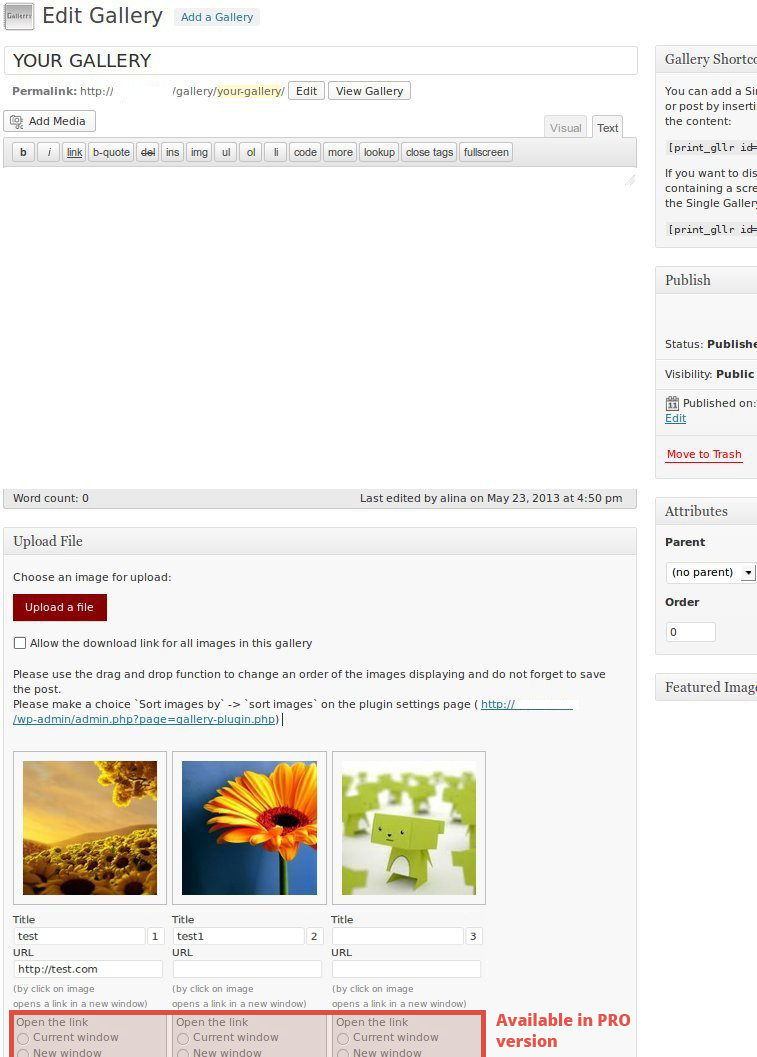
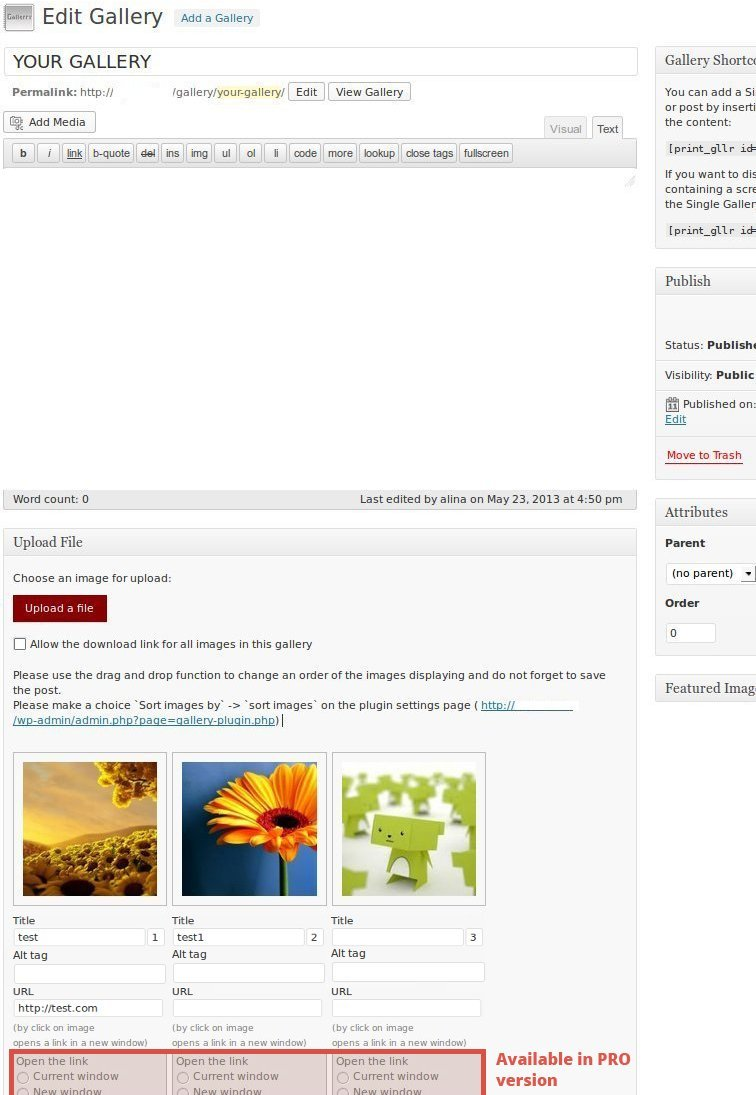
gallery update

diff --git a/wp-content/plugins/gallery-plugin/js/bws_menu.js b/wp-content/plugins/gallery-plugin/js/bws_menu.js
@@ -5,13 +5,6 @@
 
 		$('.bws_system_info_meta_box .hndle').click( function(){
 			if ( $('.bws_system_info_meta_box .inside').is(":visible") ) {
-				$('.bws_system_info_meta_box .inside').css('display','none !important');
-			} else {
-				$('.bws_system_info_meta_box .inside').css('display','block !important');
-			}					
-		});
-		$('.bws_system_info_meta_box .handlediv').click( function(){
-			if ( $('.bws_system_info_meta_box .inside').is(":visible") ) {
 				$('.bws_system_info_meta_box .inside').css('display','none');
 			} else {
 				$('.bws_system_info_meta_box .inside').css('display','block');

diff --git a/wp-content/plugins/gallery-plugin/css/stylesheet.css b/wp-content/plugins/gallery-plugin/css/stylesheet.css
@@ -87,10 +87,10 @@ ul.gallery {
 	clear:both;
 	height:0;
 }
-.gllr_image_text, .gllr_link_text {
+.gllr_image_text {
 	width:150px;
 }
-.gllr_link_text {
+.gllr_link_text, .gllr_image_alt_tag {
 	width:170px;
 }
 .gllr_order_text {

diff --git a/wp-content/themes/radleysboo/css/radleysboo.css b/wp-content/themes/radleysboo/css/radleysboo.css
@@ -144,7 +144,7 @@ img.attachment-large {
 
 @media (min-width: 768px) {
 	.gallery_box .item, .gallery .item {
-		width:25%;
+		width:30%;
 	}
 }
 

diff --git a/wp-content/plugins/gallery-plugin/gallery-plugin.php b/wp-content/plugins/gallery-plugin/gallery-plugin.php
@@ -4,7 +4,7 @@ Plugin Name: Gallery Plugin
 Plugin URI:  http://bestwebsoft.com/plugin/
 Description: This plugin allows you to implement gallery page into web site.
 Author: BestWebSoft
-Version: 4.0.1
+Version: 4.0.2
 Author URI: http://bestwebsoft.com/
 License: GPLv2 or later
 */
@@ -200,6 +200,7 @@ if ( ! function_exists( 'gllr_post_custom_box' ) ) {
 		$key = "gllr_image_text";
 		$gllr_download_link = get_post_meta( $post->ID, 'gllr_download_link', true );
 		$link_key = "gllr_link_url";
+		$alt_tag_key = "gllr_image_alt_tag";
 		$error = "";
 		$uploader = true;
 		
@@ -270,6 +271,7 @@ if ( ! function_exists( 'gllr_post_custom_box' ) ) {
 				echo '<div class="gllr_border_image"><img src="'.$image_attributes[0].'" alt="'.$page->post_title.'" title="'.$page->post_title.'" height="'.get_option( 'thumbnail_size_h' ).'" width="'.get_option( 'thumbnail_size_w' ).'" /></div>';
 				echo '<br />'.__( "Title", "gallery" ).'<br /><input type="text" name="gllr_image_text['.$page->ID.']" value="'.get_post_meta( $page->ID, $key, TRUE ).'" class="gllr_image_text" />';
 				echo '<input type="text" name="gllr_order_text['.$page->ID.']" value="'.$page->menu_order.'" class="gllr_order_text '.( $page->menu_order == 0 ? "hidden" : '' ).'" />';
+				echo '<br />'.__( "Alt tag", "gallery" ).'<br /><input type="text" name="gllr_image_alt_tag['.$page->ID.']" value="'.get_post_meta( $page->ID, $alt_tag_key, TRUE ).'" class="gllr_image_alt_tag" />';
 				echo '<br />'.__( "URL", "gallery" ).'<br /><input type="text" name="gllr_link_url['.$page->ID.']" value="'.get_post_meta( $page->ID, $link_key, TRUE ).'" class="gllr_link_text" /><br /><span class="small_text">'.__( "(by click on image opens a link in a new window)", "gallery" ).'</span>';
 				echo '<a class="gllr_pro_version" href="http://bestwebsoft.com/plugin/gallery-pro/?k=63a36f6bf5de0726ad6a43a165f38fe5&pn=79&v='.$plugin_info["Version"].'" target="_blank" title="'. __( 'This setting is available in Pro version', 'gallery' ).'"><br />'.
 					'<div class="gllr_pro_version">'.__( "Open the link", "gallery" ).'<br/><input disabled type="radio" value="_self" > '.__( "Current window", "gallery" ).'<br/><input disabled type="radio" value="_blank" > '.__( "New window", "gallery" ).'</div></a>';
@@ -298,6 +300,7 @@ if ( ! function_exists ( 'gllr_save_postdata' ) ) {
 		global $post, $wpdb;
 		$key = "gllr_image_text";
 		$link_key = "gllr_link_url";
+		$alt_tag_key = "gllr_image_alt_tag";
 
 		if ( isset( $_REQUEST['undefined'] ) && ! empty( $_REQUEST['undefined'] ) ) {
 			$array_file_name = $_REQUEST['undefined'];
@@ -395,6 +398,29 @@ if ( ! function_exists ( 'gllr_save_postdata' ) ) {
 					} elseif( $value ) {
 						// Custom field has a value, but this custom field does not exist in database
 						add_post_meta( $page->ID, $link_key, $value );
+					}
+				}
+			}
+		}
+		if ( isset( $_REQUEST['gllr_image_alt_tag'] ) ) {
+			$posts = get_posts( array(
+				"showposts"			=> -1,
+				"what_to_show"		=> "posts",
+				"post_status"		=> "inherit",
+				"post_type"			=> "attachment",
+				"orderby"			=> "menu_order",
+				"order"				=> "ASC",
+				"post_mime_type"	=> "image/jpeg,image/gif,image/jpg,image/png",
+				"post_parent"		=> $post->ID ));
+			foreach ( $posts as $page ) {
+				if( isset( $_REQUEST['gllr_image_alt_tag'][$page->ID] ) ) {
+					$value = $_REQUEST['gllr_image_alt_tag'][$page->ID];
+					if ( get_post_meta( $page->ID, $alt_tag_key, FALSE ) ) {
+						// Custom field has a value and this custom field exists in database
+						update_post_meta( $page->ID, $alt_tag_key, $value );
+					} elseif( $value ) {
+						// Custom field has a value, but this custom field does not exist in database
+						add_post_meta( $page->ID, $alt_tag_key, $value );
 					}
 				}
 			}
@@ -1010,21 +1036,21 @@ if ( ! function_exists ( 'gllr_shortcode' ) ) {
 			), $attr ) 
 		);
 		$args = array(
-			'post_type'						=> 'gallery',
-			'post_status'				=> 'publish',
-			'p'														=> $id,
+			'post_type'			=> 'gallery',
+			'post_status'		=> 'publish',
+			'p'					=> $id,
 			'posts_per_page'	=> 1
 		);	
 		ob_start();
 		$second_query = new WP_Query( $args ); 
 		$gllr_options = get_option( 'gllr_options' );
-		if( $display == 'short' ) { ?>
+		if ( $display == 'short' ) { ?>
 				<div class="gallery_box">
 				<ul>
 				<?php 
 					global $post, $wpdb, $wp_query;
 					if ( $second_query->have_posts() ) : $second_query->the_post();
-						$attachments	= get_post_thumbnail_id( $post->ID );
+						$attachments = get_post_thumbnail_id( $post->ID );
 							if( empty ( $attachments ) ) {
 								$attachments = get_children( 'post_parent='.$post->ID.'&post_type=attachment&post_mime_type=image&numberposts=1' );
 								$id = key( $attachments );
@@ -1068,29 +1094,29 @@ if ( ! function_exists ( 'gllr_shortcode' ) ) {
 							<?php foreach( $posts as $attachment ) { 
 								$key = "gllr_image_text";
 								$link_key = "gllr_link_url";
+								$alt_tag_key = "gllr_image_alt_tag";
 								$image_attributes = wp_get_attachment_image_src( $attachment->ID, 'photo-thumb' );
 								$image_attributes_large = wp_get_attachment_image_src( $attachment->ID, 'large' );
 								$image_attributes_full = wp_get_attachment_image_src( $attachment->ID, 'full' );
-								if( 1 == $gllr_options['border_images'] ){
+								if ( 1 == $gllr_options['border_images'] ) {
 									$gllr_border = 'border-width: '.$gllr_options['border_images_width'].'px; border-color:'.$gllr_options['border_images_color'].'';
 									$gllr_border_images = $gllr_options['border_images_width'] * 2;
-								}
-								else{
+								} else {
 									$gllr_border = '';
 									$gllr_border_images = 0;
 								}
-								if( $count_image_block % $gllr_options['custom_image_row_count'] == 0 ) { ?>
+								if ( $count_image_block % $gllr_options['custom_image_row_count'] == 0 ) { ?>
 								<div class="gllr_image_row">
 								<?php } ?>
 									<div class="gllr_image_block">
 										<p style="width:<?php echo $gllr_options['gllr_custom_size_px'][1][0]+$gllr_border_images; ?>px;height:<?php echo $gllr_options['gllr_custom_size_px'][1][1]+$gllr_border_images; ?>px;">
 											<?php if( ( $url_for_link = get_post_meta( $attachment->ID, $link_key, true ) ) != "" ) { ?>
 													<a href="<?php echo $url_for_link; ?>" title="<?php echo get_post_meta( $attachment->ID, $key, true ); ?>" target="_blank">
-														<img style="width:<?php echo $gllr_options['gllr_custom_size_px'][1][0]; ?>px;height:<?php echo $gllr_options['gllr_custom_size_px'][1][1]; ?>px; <?php echo $gllr_border; ?>" alt="" title="<?php echo get_post_meta( $attachment->ID, $key, true ); ?>" src="<?php echo $image_attributes[0]; ?>" />
+														<img style="width:<?php echo $gllr_options['gllr_custom_size_px'][1][0]; ?>px;height:<?php echo $gllr_options['gllr_custom_size_px'][1][1]; ?>px; <?php echo $gllr_border; ?>" alt="<?php echo get_post_meta( $attachment->ID, $alt_tag_key, true ); ?>" title="<?php echo get_post_meta( $attachment->ID, $key, true ); ?>" src="<?php echo $image_attributes[0]; ?>" />
 													</a>
 												<?php } else { ?>
 											<a rel="gallery_fancybox" href="<?php echo $image_attributes_large[0]; ?>" title="<?php echo get_post_meta( $attachment->ID, $key, true ); ?>">
-												<img style="width:<?php echo $gllr_options['gllr_custom_size_px'][1][0]; ?>px;height:<?php echo $gllr_options['gllr_custom_size_px'][1][1]; ?>px; <?php echo $gllr_border; ?>" alt="" title="<?php echo get_post_meta( $attachment->ID, $key, true ); ?>" src="<?php echo $image_attributes[0]; ?>" rel="<?php echo $image_attributes_full[0]; ?>" />
+												<img style="width:<?php echo $gllr_options['gllr_custom_size_px'][1][0]; ?>px;height:<?php echo $gllr_options['gllr_custom_size_px'][1][1]; ?>px; <?php echo $gllr_border; ?>" alt="<?php echo get_post_meta( $attachment->ID, $alt_tag_key, true ); ?>" title="<?php echo get_post_meta( $attachment->ID, $key, true ); ?>" src="<?php echo $image_attributes[0]; ?>" rel="<?php echo $image_attributes_full[0]; ?>" />
 											</a>
 												<?php } ?>
 										</p>

diff --git a/wp-content/plugins/gallery-plugin/template/gallery-single-template.php b/wp-content/plugins/gallery-plugin/template/gallery-single-template.php
@@ -31,6 +31,7 @@
 							<?php foreach( $posts as $attachment ) { 
 								$key = "gllr_image_text";
 								$link_key = "gllr_link_url";
+								$alt_tag_key = "gllr_image_alt_tag";
 								$image_attributes = wp_get_attachment_image_src( $attachment->ID, 'photo-thumb' );
 								$image_attributes_large = wp_get_attachment_image_src( $attachment->ID, 'large' );
 								$image_attributes_full = wp_get_attachment_image_src( $attachment->ID, 'full' );
@@ -49,11 +50,11 @@
 										<p style="width:<?php echo $gllr_options['gllr_custom_size_px'][1][0]+$gllr_border_images; ?>px;height:<?php echo $gllr_options['gllr_custom_size_px'][1][1]+$gllr_border_images; ?>px;">
 											<?php if( ( $url_for_link = get_post_meta( $attachment->ID, $link_key, true ) ) != "" ) { ?>
 												<a href="<?php echo $url_for_link; ?>" title="<?php echo get_post_meta( $attachment->ID, $key, true ); ?>" target="_blank">
-													<img style="width:<?php echo $gllr_options['gllr_custom_size_px'][1][0]; ?>px;height:<?php echo $gllr_options['gllr_custom_size_px'][1][1]; ?>px; <?php echo $gllr_border; ?>" alt="" title="<?php echo get_post_meta( $attachment->ID, $key, true ); ?>" src="<?php echo $image_attributes[0]; ?>" />
+													<img style="width:<?php echo $gllr_options['gllr_custom_size_px'][1][0]; ?>px;height:<?php echo $gllr_options['gllr_custom_size_px'][1][1]; ?>px; <?php echo $gllr_border; ?>" alt="<?php echo get_post_meta( $attachment->ID, $alt_tag_key, true ); ?>" title="<?php echo get_post_meta( $attachment->ID, $key, true ); ?>" src="<?php echo $image_attributes[0]; ?>" />
 												</a>
 											<?php } else { ?>
 											<a rel="gallery_fancybox" href="<?php echo $image_attributes_large[0]; ?>" title="<?php echo get_post_meta( $attachment->ID, $key, true ); ?>" >
-												<img style="width:<?php echo $gllr_options['gllr_custom_size_px'][1][0]; ?>px;height:<?php echo $gllr_options['gllr_custom_size_px'][1][1]; ?>px; <?php echo $gllr_border; ?>" alt="" title="<?php echo get_post_meta( $attachment->ID, $key, true ); ?>" src="<?php echo $image_attributes[0]; ?>" rel="<?php echo $image_attributes_full[0]; ?>" />
+												<img style="width:<?php echo $gllr_options['gllr_custom_size_px'][1][0]; ?>px;height:<?php echo $gllr_options['gllr_custom_size_px'][1][1]; ?>px; <?php echo $gllr_border; ?>" alt="<?php echo get_post_meta( $attachment->ID, $alt_tag_key, true ); ?>" title="<?php echo get_post_meta( $attachment->ID, $key, true ); ?>" src="<?php echo $image_attributes[0]; ?>" rel="<?php echo $image_attributes_full[0]; ?>" />
 											</a>
 											<?php } ?>											
 										</p>

diff --git a/wp-content/plugins/gallery-plugin/bws_menu/bws_menu.php b/wp-content/plugins/gallery-plugin/bws_menu/bws_menu.php
@@ -28,7 +28,8 @@ if ( ! function_exists( 'bws_add_menu_render' ) ) {
 			array( 'google-sitemap-plugin\/google-sitemap-plugin.php', 'Google sitemap plugin', 'http://bestwebsoft.com/plugin/google-sitemap-plugin/', 'http://bestwebsoft.com/plugin/google-sitemap-plugin/#download', '/wp-admin/plugin-install.php?tab=search&type=term&s=Google+sitemap+plugin+bestwebsoft&plugin-search-input=Search+Plugins', 'admin.php?page=google-sitemap-plugin.php' ),
 			array( 'updater\/updater.php', 'Updater', 'http://bestwebsoft.com/plugin/updater-plugin/', 'http://bestwebsoft.com/plugin/updater-plugin/#download', '/wp-admin/plugin-install.php?tab=search&type=term&s=updater+bestwebsoft&plugin-search-input=Search+Plugins', 'admin.php?page=updater-options' ),
 			array( 'custom-fields-search\/custom-fields-search.php', 'Custom Fields Search', 'http://bestwebsoft.com/plugin/custom-fields-search/', 'http://bestwebsoft.com/plugin/custom-fields-search/#download', '/wp-admin/plugin-install.php?tab=search&type=term&s=Custom+Fields+Search+bestwebsoft&plugin-search-input=Search+Plugins', 'admin.php?page=custom_fields_search.php' ),
-			array( 'google-plus-one\/google-plus-one.php', 'Google +1', 'http://bestwebsoft.com/plugin/google-plus-one/', 'http://bestwebsoft.com/plugin/google-plus-one/#download', '/wp-admin/plugin-install.php?tab=search&type=term&s=Google+%2B1+bestwebsoft&plugin-search-input=Search+Plugins', 'admin.php?page=google-plus-one.php' )
+			array( 'google-one\/google-plus-one.php', 'Google +1', 'http://bestwebsoft.com/plugin/google-plus-one/', 'http://bestwebsoft.com/plugin/google-plus-one/#download', '/wp-admin/plugin-install.php?tab=search&type=term&s=Google+%2B1+bestwebsoft&plugin-search-input=Search+Plugins', 'admin.php?page=google-plus-one.php' ),
+			array( 'relevant\/related-posts-plugin.php', 'Related Posts Plugin', 'http://bestwebsoft.com/plugin/related-posts-plugin/', 'http://bestwebsoft.com/plugin/related-posts-plugin/#download', '/wp-admin/plugin-install.php?tab=search&s=Related+Posts+Plugin+Bestwebsoft&plugin-search-input=Search+Plugins', 'admin.php?page=related-posts-plugin.php' )
 		);
 		foreach ( $array_plugins as $plugins ) {
 			if( 0 < count( preg_grep( "/".$plugins[0]."/", $active_plugins ) ) ) {
